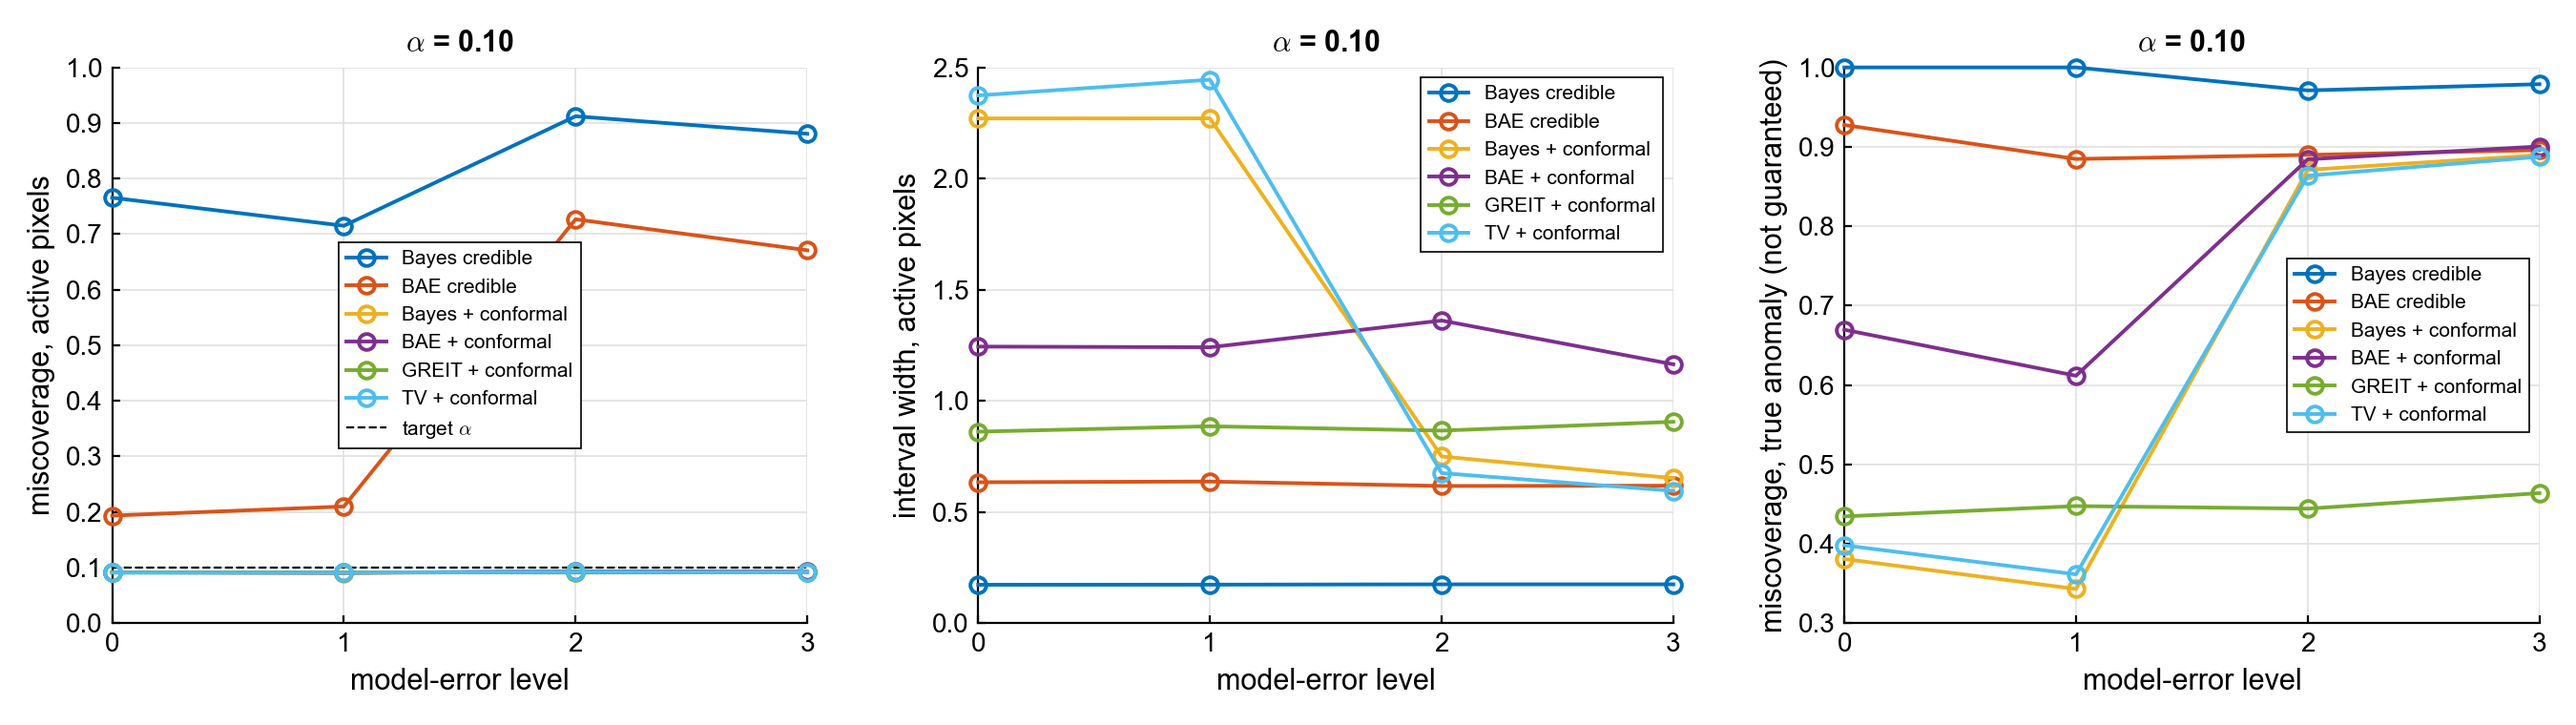
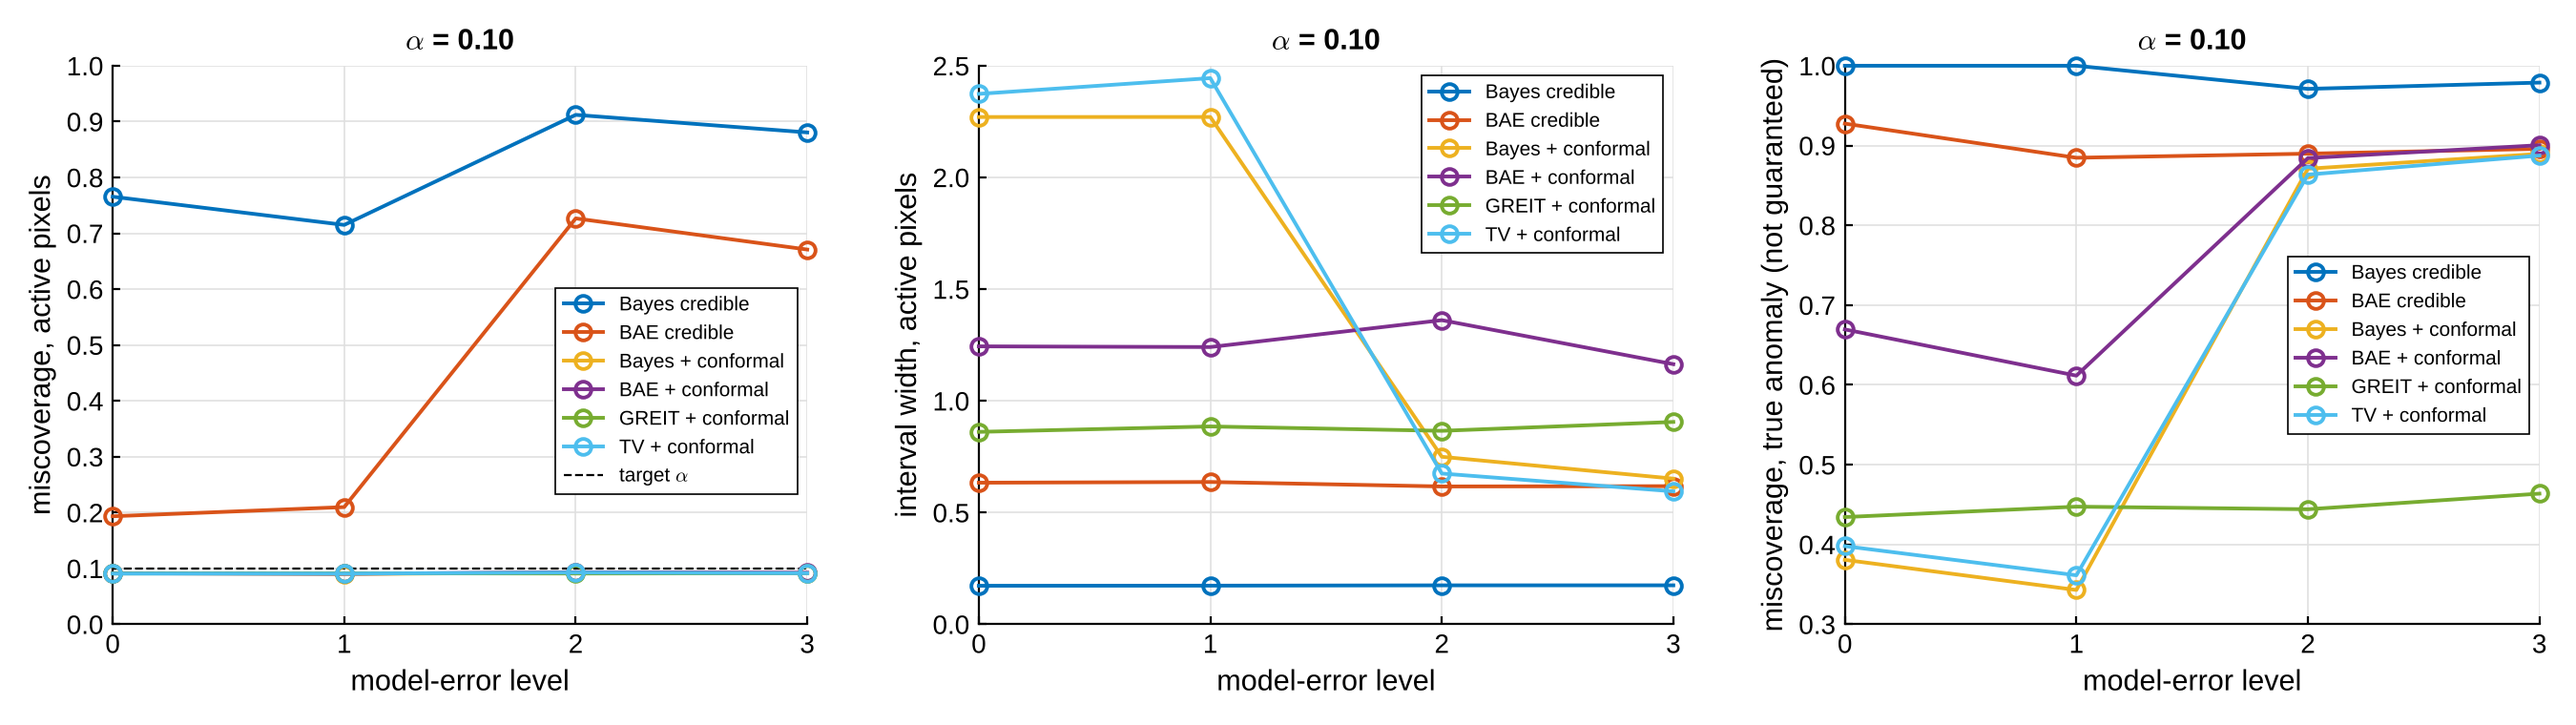
Fix Figure 3 legend so it no longer hides the BAE curve

diff --git a/conformal_eit/python_metrics/make_fig_model_error.py b/conformal_eit/python_metrics/make_fig_model_error.py
@@ -13,7 +13,7 @@ SERIES = [("Bayes", "Bayes credible", "Bayes credible"), ("BAE", "BAE credible",
           ("Bayes", "CRC grp adaptive", "Bayes + conformal"), ("BAE", "CRC grp adaptive", "BAE + conformal"),
           ("GREIT", "CRC grp adaptive", "GREIT + conformal"), ("TV", "CRC grp adaptive", "TV + conformal")]
 COLORS = ["#0072BD", "#D95319", "#EDB120", "#7E2F8E", "#77AC30", "#4DBEEE"]
-PANELS = [("miscov_active", "miscoverage, active pixels", "center"),
+PANELS = [("miscov_active", "miscoverage, active pixels", "upper right"),
           ("width_active", "interval width, active pixels", "upper right"),
           ("miscov_true_anomaly", "miscoverage, true anomaly (not guaranteed)", "center right")]
 
@@ -53,7 +53,9 @@ if __name__ == "__main__":
         for sp in ("top", "right"):
             ax.spines[sp].set_visible(False)
         ax.tick_params(direction="in", length=3)
-        ax.legend(loc=loc, fontsize=7.5, framealpha=1, edgecolor="k", fancybox=False).get_frame().set_linewidth(0.6)
+        # first panel: legend in the empty area at lower right, so it hides no curve
+        anchor = dict(bbox_to_anchor=(1.0, 0.62)) if p == 0 else {}
+        ax.legend(loc=loc, fontsize=7.5, framealpha=1, edgecolor="k", fancybox=False, **anchor).get_frame().set_linewidth(0.6)
     fig.tight_layout(w_pad=3)
     fig.savefig(out, dpi=200, facecolor="w")
     print(f"> Saved {out}")
